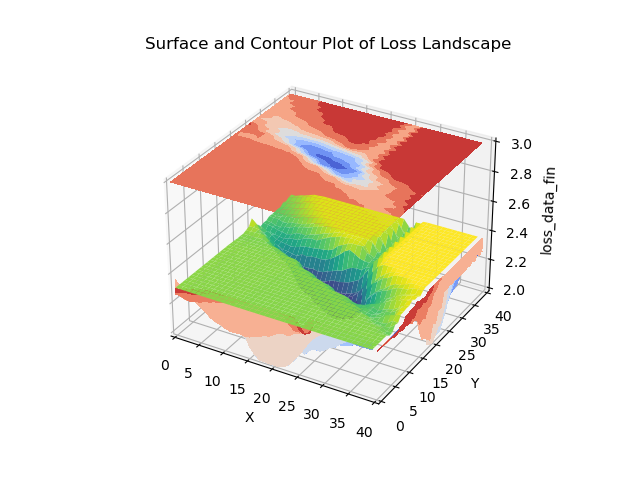
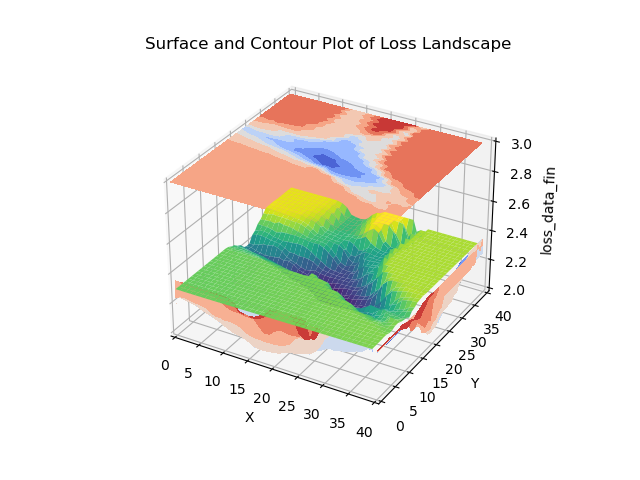
Add value plots

Changed region(s): [[0.25, 0.1875, 0.75, 0.7812]]

diff --git a/plot_cifar10.py b/plot_cifar10.py
@@ -1,0 +1,83 @@
+from numpy import load
+import matplotlib.pyplot as plt
+from mpl_toolkits.mplot3d import Axes3D
+import numpy as np
+from matplotlib import cm
+import matplotlib.animation as animation
+
+STEPS = 40
+
+# load array
+loss_data_fin = load('loss_data_3d_cifar10.npy')
+loss_data_fin_3d = load('loss_data_fin_3d_cifar10.npy')
+loss_data_fin_c = load('loss_data_3d_cifar10c.npy')
+loss_data_fin_3d_c = load('loss_data_fin_3d_cifar10c.npy')
+
+# print the array
+print(loss_data_fin.shape)
+print(loss_data_fin_3d.shape)
+print(loss_data_fin_c.shape)
+print(loss_data_fin_3d_c.shape)
+
+# print max and min
+loss_data_fin_3d.flatten()
+print('max loss fin', np.max(loss_data_fin_3d))
+print('min loss fin', np.min(loss_data_fin_3d))
+
+loss_data_fin.flatten()
+print('max loss fin', np.max(loss_data_fin))
+print('min loss fin', np.min(loss_data_fin))
+
+loss_data_fin_3d_c.flatten()
+print('max loss fin', np.max(loss_data_fin_3d_c))
+print('min loss fin', np.min(loss_data_fin_3d_c))
+
+loss_data_fin_c.flatten()
+print('max loss fin', np.max(loss_data_fin_c))
+print('min loss fin', np.min(loss_data_fin_c))
+
+# plot loss values of 3d loss landscape of cifar10
+num_list = []
+for i in range(STEPS):
+    for j in range(STEPS):
+        for k in range(STEPS):
+            num_list.append(loss_data_fin_3d[i][j][k])
+plt.bar(range(len(num_list)), num_list)
+#plt.yticks(np.arange(2.0, 2.5, step=0.01))
+#plt.ylim(ymin=2.0, ymax=2.5)
+plt.savefig('loss_cifar10_3d_values.png')
+plt.show()
+
+# plot loss values of 3d loss landscape of cifar10c
+num_list_c = []
+for i in range(STEPS):
+    for j in range(STEPS):
+        for k in range(STEPS):
+            num_list_c.append(loss_data_fin_3d_c[i][j][k])
+plt.bar(range(len(num_list_c)), num_list_c)
+#plt.yticks(np.arange(2.0, 2.5, step=0.01))
+#plt.ylim(ymin=2.0, ymax=2.5)
+plt.savefig('loss_cifar10c_3d_values.png')
+plt.show()
+
+# plot loss values of 2d loss landscape of cifar10
+num_list_2d = []
+for i in range(STEPS):
+    for j in range(STEPS):
+            num_list_2d.append(loss_data_fin[i][j])
+plt.bar(range(len(num_list_2d)), num_list_2d)
+plt.yticks(np.arange(2.0, 2.5, step=0.01))
+plt.ylim(ymin=2.0, ymax=2.5)
+plt.savefig('loss_cifar10_2d_values.png')
+plt.show()
+
+# plot loss values of 2d loss landscape of cifar10c
+num_list_2d_c = []
+for i in range(STEPS):
+    for j in range(STEPS):
+            num_list_2d_c.append(loss_data_fin_c[i][j])
+plt.bar(range(len(num_list_2d_c)), num_list_2d_c)
+plt.yticks(np.arange(2.0, 2.5, step=0.01))
+plt.ylim(ymin=2.0, ymax=2.5)
+plt.savefig('loss_cifar10c_2d_values.png')
+plt.show()

diff --git a/plot_mnist.py b/plot_mnist.py
@@ -3,6 +3,7 @@ import matplotlib.pyplot as plt
 from mpl_toolkits.mplot3d import Axes3D
 import numpy as np
 from matplotlib import cm
+import matplotlib.animation as animation
 
 STEPS = 40
 
@@ -19,10 +20,12 @@ print(Y.shape)
 print(Z.shape)
 print(loss_data_fin.shape)
 print(loss_data_fin_3d.shape)
-print(loss_data_fin_3d)
 
 # print max and min
 loss_data_fin_3d.flatten()
+print(loss_data_fin_3d.shape)
+print(loss_data_fin_3d[0][0][0])
+
 print('max loss fin', np.max(loss_data_fin_3d))
 print('min loss fin', np.min(loss_data_fin_3d))
 
@@ -38,6 +41,22 @@ ax.set_xlabel('X', fontdict={'size': 15, 'color': 'black'})
 
 # save plot to file and show
 plt.savefig('loss_mnist_3d_plot.png')
+plt.show()
+
+# plot loss values of 3d loss landscape
+num_list = []
+for i in range(STEPS):
+    for j in range(STEPS):
+        for k in range(STEPS):
+            num_list.append(loss_data_fin_3d[i][j][k])
+plt.bar(range(len(num_list)), num_list)
+plt.yticks(np.arange(2.0, 2.5, step=0.01))
+plt.ylim(ymin=2.0, ymax=2.5)
+plt.savefig('loss_mnist_3d_values.png')
+plt.show()
+
+plt.plot(range(len(num_list)), num_list,'o-',color = 'r',label="loss")
+plt.savefig('loss_mnist_3d_values_line.png')
 plt.show()
 
 # plot loss contour in 2D
@@ -62,4 +81,19 @@ ax.set_title('Surface and Contour Plot of Loss Landscape')
 
 # save plot to file and show
 plt.savefig('loss_mnist_2d_plot.png')
+plt.show()
+
+loss_data_fin.flatten()
+print('max loss fin', np.max(loss_data_fin))
+print('min loss fin', np.min(loss_data_fin))
+
+# plot loss values of 2d loss landscape
+num_list_2d = []
+for i in range(STEPS):
+    for j in range(STEPS):
+            num_list_2d.append(loss_data_fin[i][j])
+plt.bar(range(len(num_list_2d)), num_list_2d)
+plt.yticks(np.arange(2.0, 2.5, step=0.01))
+plt.ylim(ymin=2.0, ymax=2.5)
+plt.savefig('loss_mnist_2d_values.png')
 plt.show()

diff --git a/example_cifar10c.py b/example_cifar10c.py
@@ -30,6 +30,7 @@ import net_plotter
 import model_loader
 import scheduler
 import mpi4pytorch as mpi
+from robustbench.data import load_cifar10c
 
 # code from this library - import the lines module
 import loss_landscapes
@@ -51,8 +52,8 @@ if __name__ == '__main__':
     model_final = copy.deepcopy(net)
     STEPS = 40
     
-    train_loader, test_loader = dataloader.load_dataset('cifar10','cifar10/data', 32, 1, False,1, 0,'','')
-    x,target = iter(train_loader).__next__()
+    x,target = load_cifar10c(n_examples=32, data_dir='./files/')
+    target = target.long()
     target = target.unsqueeze(1)
     target_hot = torch.FloatTensor(torch.zeros((target.size()[0],10)).scatter(1,target,1.0))
     metric = loss_landscapes.metrics.Loss(torch.nn.CrossEntropyLoss(),x,target_hot)
@@ -78,7 +79,7 @@ if __name__ == '__main__':
     ax.set_title('Surface and Contour Plot of Loss Landscape')
     
     # save plot to file and show
-    plt.savefig('loss_cifar10_2d_plot.png')
+    plt.savefig('loss_cifar10c_2d_plot.png')
     plt.show()
 
     # compute loss landscape 3D data
@@ -114,8 +115,8 @@ if __name__ == '__main__':
     ax.set_xlabel('X', fontdict={'size': 15, 'color': 'black'})
 
     # save plot to file and show
-    plt.savefig('loss_cifar10_3d.png')
+    plt.savefig('loss_cifar10c_3d.png')
     plt.show()
     
-    save('loss_data_fin_cifar10.npy', loss_data_fin)
-    save('loss_data_fin_3d_cifar10.npy', loss_data_fin_3d)
+    save('loss_data_fin_cifar10c.npy', loss_data_fin)
+    save('loss_data_fin_3d_cifar10c.npy', loss_data_fin_3d)
